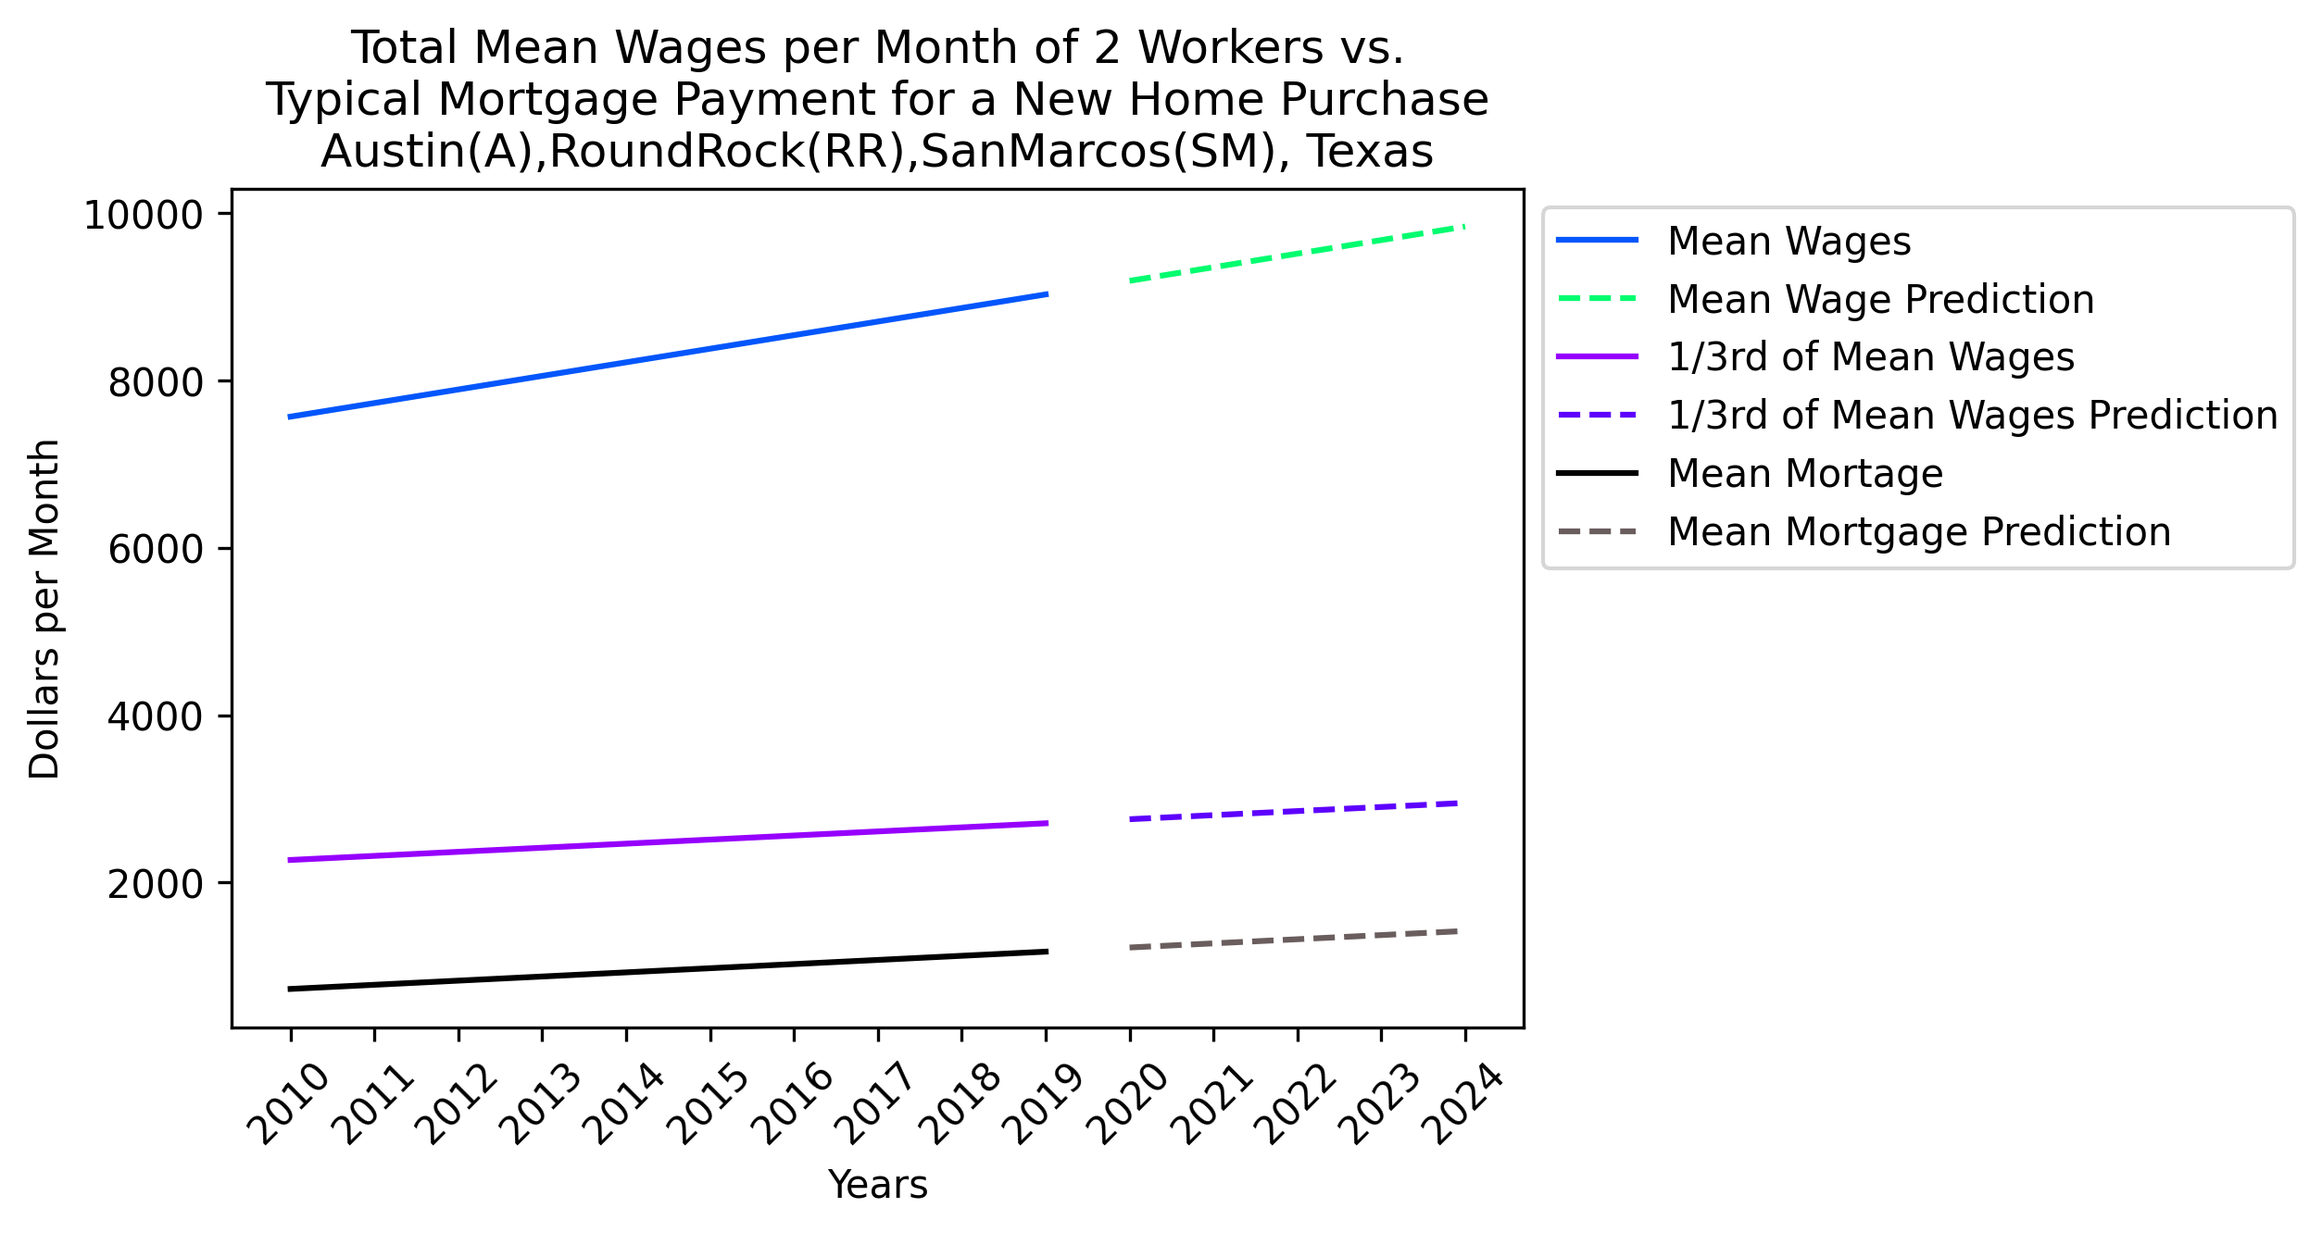
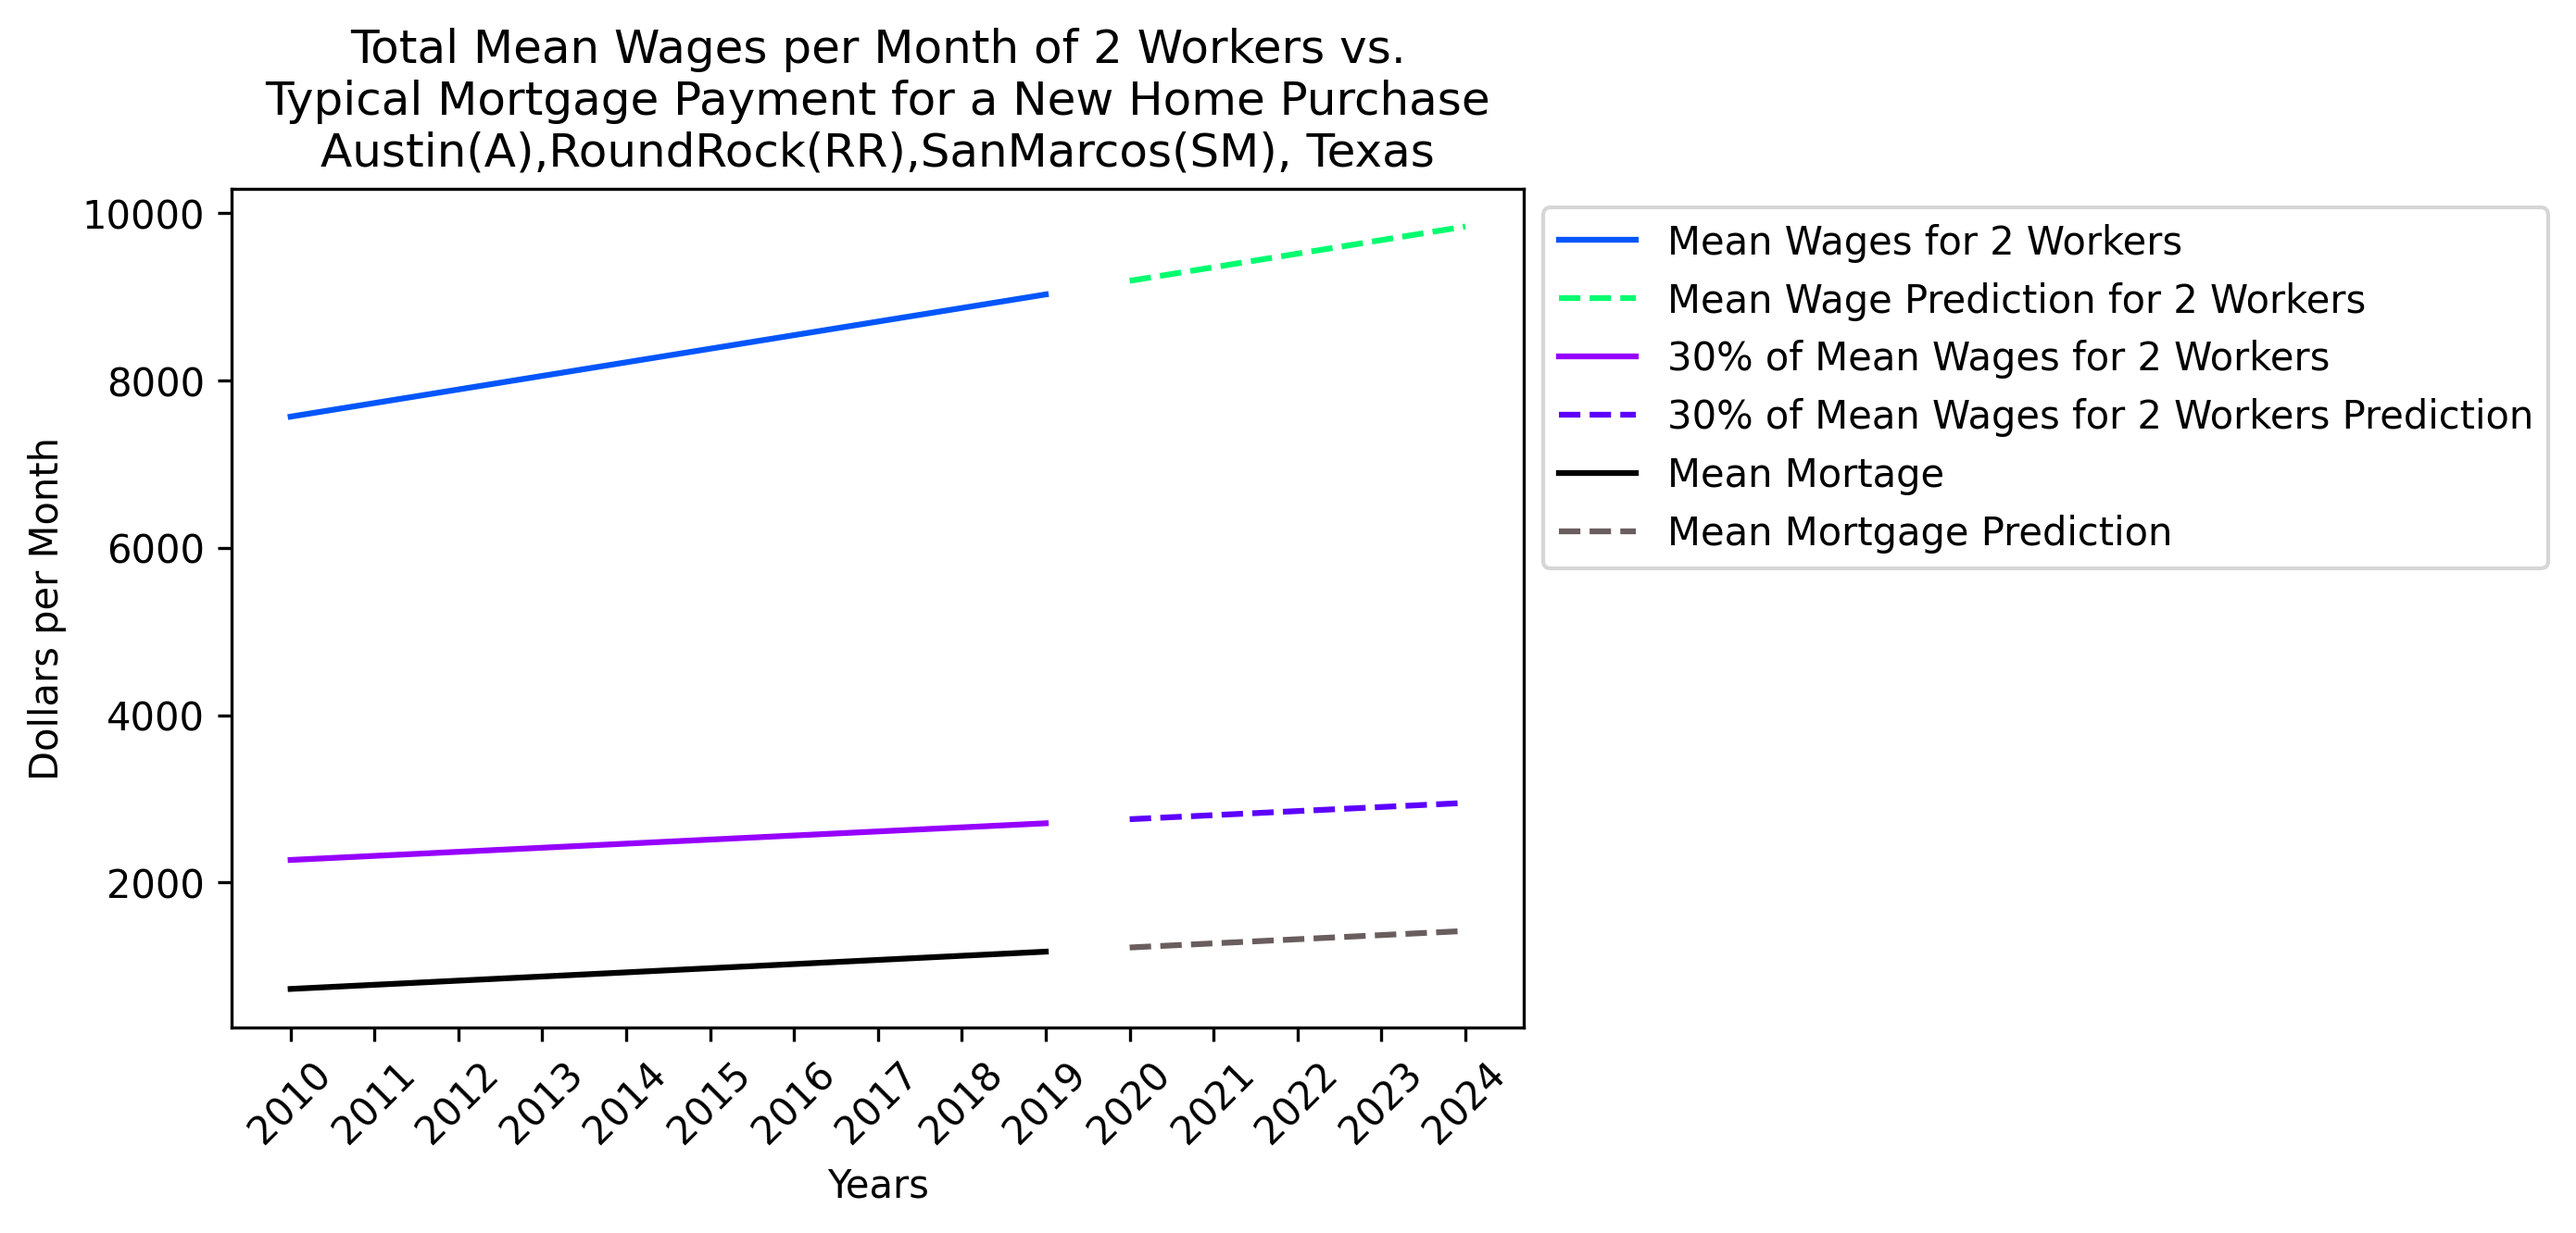
Fixes typos

diff --git a/OES&ZHVI-in-Austin.py b/OES&ZHVI-in-Austin.py
@@ -162,7 +162,7 @@ def ZHVI (graph = False):
     # Graphing
     if graph == True:
         fig,ax = plt.subplots()
-        ax.set( title = "Mean of House Sell Price in range 10-90% of ZHVI for\nAustin(A),RoundRock(RR),SanMarcos(SM), Texas",
+        ax.set( title = "Mean House Sell Price in range 10-90% of ZHVI for\nAustin(A),RoundRock(RR),SanMarcos(SM), Texas",
                 xlabel = "Years",
                 ylabel = "Mean of 10-90% ZHVI (Dollars)")
         ax.text( 0.90,0.1, 'R2={}'.format(r2), horizontalalignment='center', verticalalignment='center', transform=ax.transAxes)
@@ -271,11 +271,11 @@ df.to_csv("results.csv")
 
 
 # Graphing
-plt.plot(       x.flatten(),            wage_monthly_for_2,  '-', color = '#0356fc', label = "Mean Wages")
-plt.plot(x_future.flatten(),     wage_monthly_future_for_2, '--', color = '#03fc6f', label = "Mean Wage Prediction")
+plt.plot(       x.flatten(),            wage_monthly_for_2,  '-', color = '#0356fc', label = "Mean Wages for 2 Workers")
+plt.plot(x_future.flatten(),     wage_monthly_future_for_2, '--', color = '#03fc6f', label = "Mean Wage Prediction for 2 Workers")
 
-plt.plot(       x.flatten(),        p30_monthly_wage_for_2,  '-', color = '#9600FD', label = "1/3rd of Mean Wages")
-plt.plot(x_future.flatten(), p30_monthly_wage_future_for_2, '--', color = '#5D00FD', label = "1/3rd of Mean Wages Prediction")
+plt.plot(       x.flatten(),        p30_monthly_wage_for_2,  '-', color = '#9600FD', label = "30% of Mean Wages for 2 Workers")
+plt.plot(x_future.flatten(), p30_monthly_wage_future_for_2, '--', color = '#5D00FD', label = "30% of Mean Wages for 2 Workers Prediction")
 
 plt.plot(       x.flatten(),              monthly_mortgage, '-', color = '#000000', label = "Mean Mortage")
 plt.plot(x_future.flatten(),       monthly_mortgage_future,'--', color = '#6A5D5D', label = "Mean Mortgage Prediction")

diff --git a/README.md b/README.md
@@ -9,8 +9,8 @@ Housing is increasing across the US. How much has Austin's housing increased ove
 <h6>
 
 - Income Data: Will be using .gov resource Occupational Employment Statistics from 2010-2019
-- Affordability Data: Will be using 30% of 2 workers income. With the mortgages calculated as twice the sell price (due to interest)
-- Housing Data:  Housing data will be from Zillow from 2010-2019
+- Affordability Data: Will be using 30% of 2 workers wages. 
+- Housing Data:  Housing data will be from Zillow from 2010-2019. `monthly_mortgage` will be calculated with <img src="https://render.githubusercontent.com/render/math?math=P*\frac{r*(1%2Br)^{n}}{(1%2Br)^{n}-1}">
 - Time Series : Due to the OES limitation, we will only be evaluating up from 2010-2019, with projections of 2020-2024.
 - Machine Learning : Machine learning will be used to project the years 2020-2024
 </h6>
@@ -22,7 +22,7 @@ Housing is increasing across the US. How much has Austin's housing increased ove
 
 30% of income standard for Home affordability: https://www.census.gov/housing/census/publications/who-can-afford.pdf
 
-Mary Schwartz and Ellen Wilson wrote a standard of housing back in 2006 and is still regarded by Harvard (as of 2018) and other well regarded resources to this day as as standard. The short of the census publication, is that 30% of income is the threshold for housing affordability until it becomes a housing cost burden.
+Mary Schwartz and Ellen Wilson wrote a publication on housing back in 2006 and is still regarded by Harvard (as of 2018) and other well regarded resources as standard to this day. The short of the census publication, is that 30% of income is the threshold for housing affordability until it becomes a housing cost burden.
 </h6>
 
 <h4>Resource 2</h4>
@@ -30,9 +30,9 @@ Mary Schwartz and Ellen Wilson wrote a standard of housing back in 2006 and is s
 <h6>
 Occupational Employment Statistics (2010-2019): Data gathered from https://www.bls.gov/oes/tables.htm
 
-Occupational Employment Statistics (OES) has data for several regions across the US separated by year, including the Austin Area, which is found in the 'Metropolitan and non-metropolitan area' HTML and XLS links. The OES has the Austin Area in Texas classified as two regions, both as Austin-Round Rock (post 2014) and as Austin-Round Rock-San Maros (2014 and prior). This distinction has been noted during plotting. We will not be looking at any one specific job, OES has a record called `All Occupations` which is the summary of `All Occupations` within a region. We will be looking at the `H_MEAN` of this `All Occupations` record. Note that these reports are given in May annually. 
+Occupational Employment Statistics (OES) has data for several regions across the US separated by year, including the Austin Area, which is found in the 'Metropolitan and non-metropolitan area' HTML and XLS in the link above. The OES has the Austin Area in Texas classified as two regions, both as Austin-Round Rock (post 2014) and as Austin-Round Rock-San Maros (2014 and prior). This distinction has been noted during plotting. We will not be looking at any one specific job as OES has a record called `All Occupations` which is the summary of `All Occupations` within a region. We will be looking at the `H_MEAN` of this `All Occupations` record. Note that these reports are given in May annually.
 
-Due to the sheer size of each OES file per year (33MB), the files were cut down to just the Regions of interest.
+Due to the sheer size of each OES file per year (33MB), the files were cut down to just the Regions of interest (1. Austin-Round Rock, 2. Austin-Round Rock-San Marcos)
 </h6>
 
 <h4>Resource 3A</h4>
@@ -40,9 +40,9 @@ Due to the sheer size of each OES file per year (33MB), the files were cut down 
 
 ZHVI Single-Family Homes Time Series: Data gathered from https://www.zillow.com/research/data/
 
-Zillow has a bunch of really cool data, but we will be looking at Zillow Home Value Index (ZHVI) for Single-Family Homes, which is the typical value for all single-family homes in a given region. Specifically the records under the 'Metro' column called 'Austin-Round Rock' area (which does include the largest cities: Austin, Round Rock, Georgetown, San Marcos). Given that the OES released each May, we will be looking at the May columns in the ZHVI file.
+Zillow has a bunch of really cool data, but we will be looking at Zillow Home Value Index (ZHVI) for Single-Family Homes, which is the typical value for all single-family homes in a given region. Specifically the records under the `Metro` column called 'Austin-Round Rock' area (which does include the largest cities: Austin, Round Rock, Georgetown, San Marcos). Given that the OES released each May, we will be looking at the May columns in the ZHVI file.
 
-To filter out the outliers, the inter-decile mean average is taken (excluding the first and last 10%, so from 10-90%) for all the regions in Austin-Round Rock records.
+To filter out the outliers, the inter-decile mean average is taken (excluding the first and last 10%, so all records from 10-90% are included) for all the regions in Austin-Round Rock records.
 </h6>
 
 <h4>Resource 3B</h4>
@@ -50,19 +50,23 @@ To filter out the outliers, the inter-decile mean average is taken (excluding th
 
 Zillow has an article about down payment on a house https://www.zillow.com/home-buying-guide/down-payment-on-a-house/
 
-Area's around the US vary for a typical down payment on a house. But for simplicity this article shows the benefits of choosing 20%, and we will be using that figure.
+Area's around the US vary for a typical down payment on a house. But for simplicity this article shows the benefits of choosing 20%, and we will be using that figure. 20% down payment will be considered a constant from 2010-2019
 </h6>
 
 <h4>Resource 4</h4>
 <h6>
 
 Macrotrends 30 Year Fixed Mortgage Rate https://www.macrotrends.net/2604/30-year-fixed-mortgage-rate-chart
+
+As mortgage rates change over time, it will not be considered a constant as these have a range of influences from local, state to country-wide economy over time. The only loan type considered will be 30-year fixed mortgage. 
 </h6>
 
 <h4>Resource 5</h4>
 <h6> 
 
-Bankrate offers a way to calculate mortgage payments https://www.bankrate.com/calculators/mortgages/mortgage-calculator.aspx through formula:
+Bankrate offers a way to calculate mortgage payments https://www.bankrate.com/calculators/mortgages/mortgage-calculator.aspx
+
+We will be using this formula to calculate 30 year fixed rate mortgages.
 
 <h2>Calculations</h2>
 
@@ -75,13 +79,13 @@ Mean Wage = is taking the `H_MEAN` column of each `All Occupations` records
 Assuming a 40 hour work week for 52 weeks a year
 `hours_worked_per_month` = <img src="https://render.githubusercontent.com/render/math?math=40\frac{hour(s)}{week(s)}*\frac{52week(s)}{12month(s)}=173.\overline{33}\frac{hour(s)}{month(s)}">
 
-`wage_monthly_for_two` = Mean Wage * `hours_worked_per_month`
+`wage_monthly_for_two` = Mean Wage * `hours_worked_per_month`* 2
 </h6>
 
 <h4>30% of Wage for 2<h4>
 <h6>
 
-`p30_monthly_wage_for_2` = `wage_monthly_for_two` * 2
+`p30_monthly_wage_for_2` = `wage_monthly_for_two` * 0.30
 </h6>
 
 <h4>Mortgage formula<h4>
@@ -103,6 +107,8 @@ Assuming a 40 hour work week for 52 weeks a year
 <img src=graphs/mortgage.png width=325>
 <img src=graphs/OES&ZHVIMortgage.png width=500>
 
+As a reminder, an affordable mortgage is considered everything under the 30% wage for 2 workers
+
 If we define affordability as: <img src="https://render.githubusercontent.com/render/math?math=1-\frac{monthly\_mortgage}{30percent\_of\_Wages\_for\_2\_workers}">
 
 Where 
@@ -111,8 +117,10 @@ Where
 
 Affordability has shrunk from 67.8% in 2010 to 56.6% in 2019. In 2024, affordability is projected to shrink to 51.8%
 
+These are the results found from the "*Total Mean Wages per Month of 2 Workers vs. Typical Morgage Payment for a New Home Purchase*" graph. The data from the graph can is stored in `results.csv`
+
 <h2>Conclusion</h2>
 <h6>
 
-Although affordability has shrunk, homes are still affordable and will continue to be for a while.
+Although affordability has shrunk, homes are still affordable and will continue to be for a while. 
 </h6>
